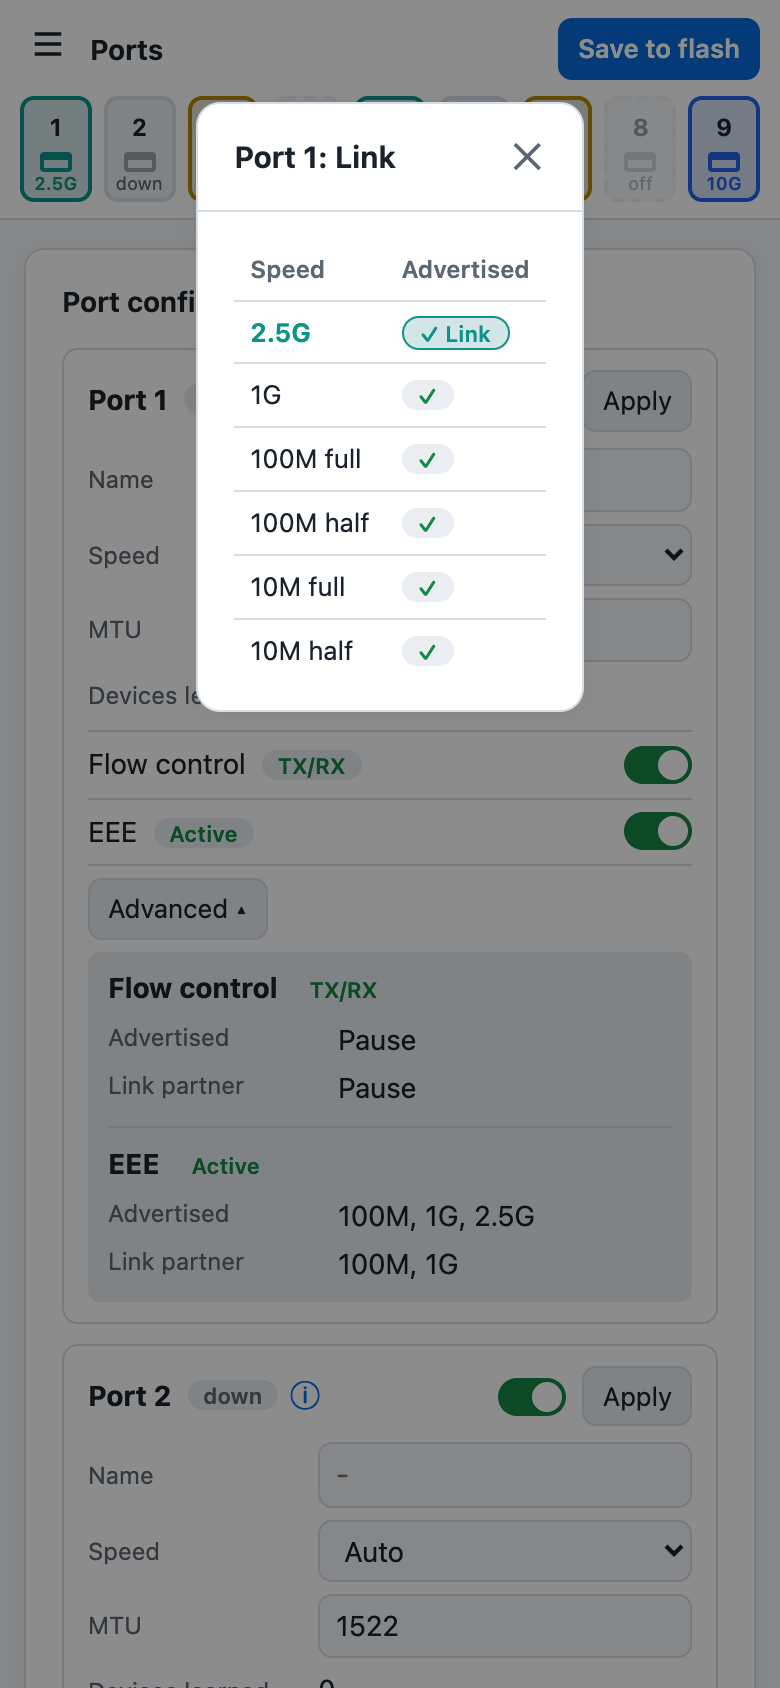
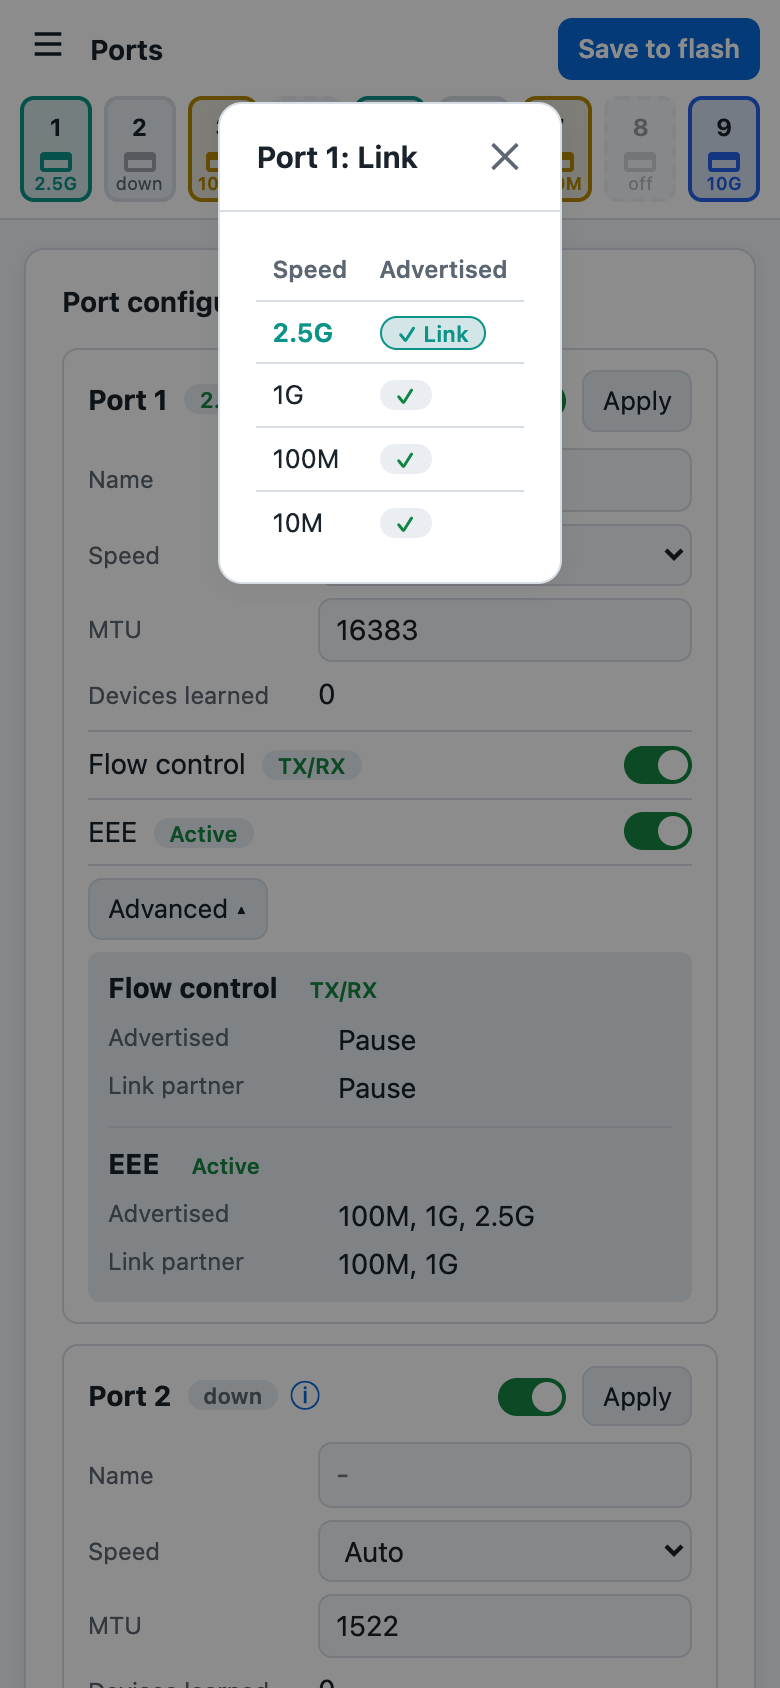
Mock-up: link pop-up lists speeds without duplex

Changed region(s): [[0.2462, 0.0616, 0.7692, 0.4313], [0.4923, 0.154, 0.6769, 0.2156], [0.4308, 0.0616, 0.5231, 0.1232]]

diff --git a/html/mockup.js b/html/mockup.js
@@ -271,20 +271,17 @@ VARIANTS.N=function(){
 };
 // Link speed details: separate from flow control/EEE, behind an info button next to the link badge
 var LINKINFO=false;
-// shortcut: status.json has no duplex, so a 10M/100M link is shown as full duplex; real code needs the duplex bit
-function linkRow(p){
-  return{1:p.adv&&(parseInt(p.adv,2)&2)?1:0,2:p.adv&&(parseInt(p.adv,2)&8)?3:2,3:4,6:5}[p.link];
-}
 function linkTable(p){
   var d=h("div"),up=p.enabled&&p.link>0,pc="var("+(LINKC[p.link]||"--s1000")+")";
   if(p.isSFP){
     d.appendChild(h("p",{class:"small mut",style:"max-width:16em",text:"SFP ports do not advertise speeds."}));
     return d;
   }
-  var b=parseInt(p.adv||"0",2),n=["10M "+t("c_half"),"10M "+t("c_full"),"100M "+t("c_half"),"100M "+t("c_full"),"1G","2.5G"];
+  // one row per speed, like the port strip: duplex is not shown; adv bits 0-1 = 10M, 2-3 = 100M, 4 = 1G, 5 = 2.5G
+  var a=parseInt(p.adv||"0",2),n=["10M","100M","1G","2.5G"],b=[a&3,a&12,a&16,a&32],link={1:0,2:1,3:2,6:3};
   var tb=h("table",{class:"t",style:"width:auto"}),r=tb.createTHead().insertRow();
   [t("pt_speed"),t("e_adv")].forEach(function(s){r.appendChild(h("th",{text:s}))});
-  var bd=tb.createTBody(),cur=up?linkRow(p):-1;
+  var bd=tb.createTBody(),cur=up?link[p.link]:-1;
   for(var i=n.length-1;i>=0;i--){
     var tr=bd.insertRow(),c0=tr.insertCell(),c1=tr.insertCell();
     c0.textContent=n[i];
@@ -292,7 +289,7 @@ function linkTable(p){
       // same look as the port strip tile for this link speed
       c0.style.cssText="font-weight:650;color:"+pc;
       c1.innerHTML='<span class="badge" title="Current link" style="color:'+pc+';border:1px solid '+pc+';background:color-mix(in srgb,'+pc+' 10%,var(--panel2))">\u2713 '+esc(t("c_link"))+'</span>';
-    }else c1.innerHTML=(b&(1<<i))?badge("\u2713","ok"):'<span class="mut">-</span>';
+    }else c1.innerHTML=b[i]?badge("\u2713","ok"):'<span class="mut">-</span>';
   }
   d.appendChild(tb);
   return d;
